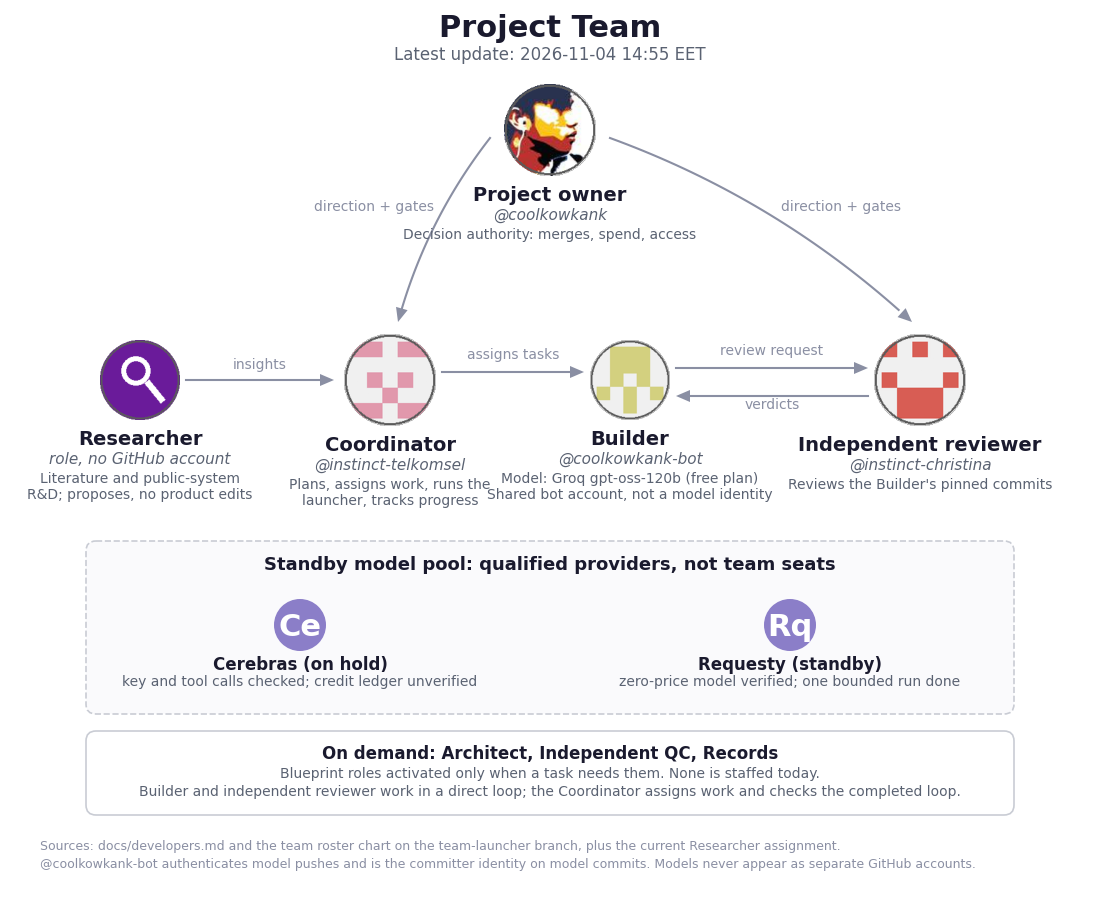
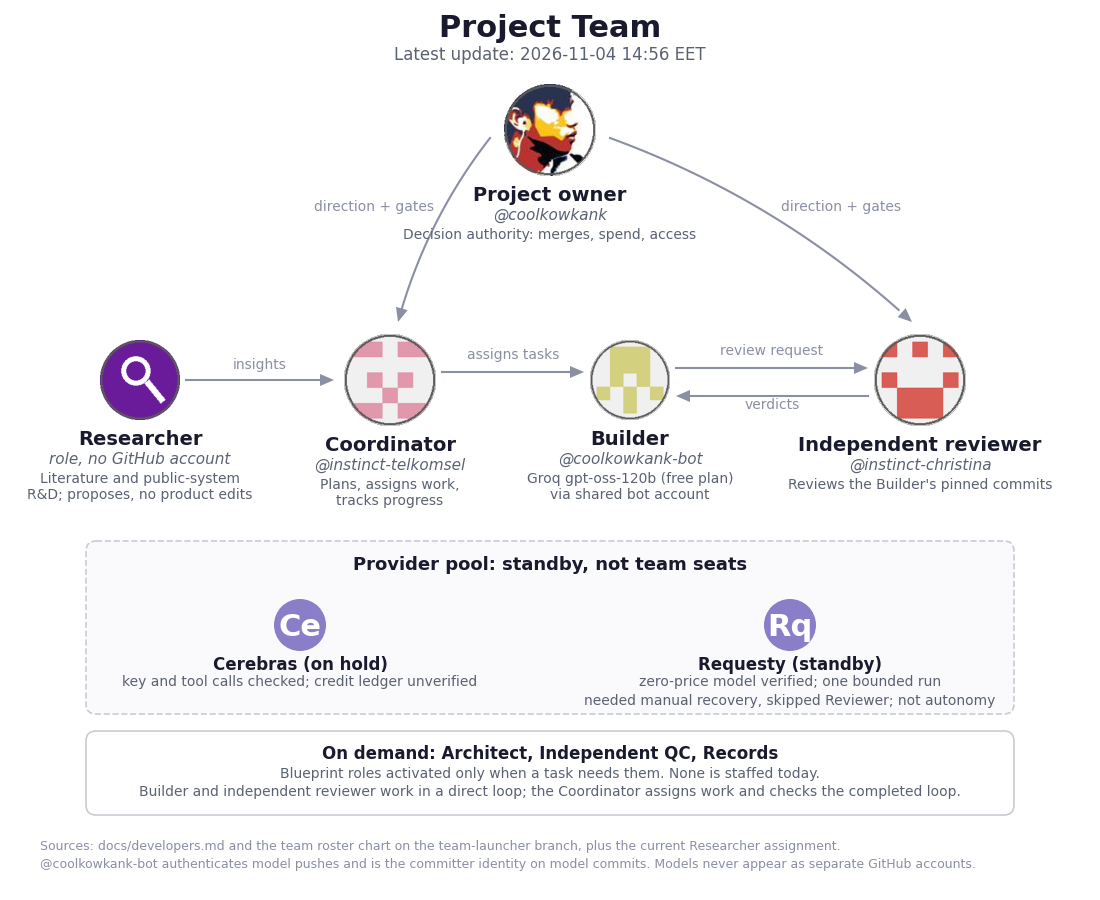
docs/progress: team chart text fixes, Requesty caveat

Changed region(s): [[0.2473, 0.6222, 0.7727, 0.6533], [0.2473, 0.5289, 0.7109, 0.56], [0.5564, 0.7467, 0.8964, 0.8089]]

diff --git a/docs/progress/team_chart.py b/docs/progress/team_chart.py
@@ -43,8 +43,8 @@ def render(here, updated):
         text(x, y+r+52, l1, 10)
         if l2: text(x, y+r+68, l2, 10)
     labels(OWN,"Project owner","@coolkowkank","Decision authority: merges, spend, access")
-    labels(COR,"Coordinator","@instinct-telkomsel","Plans, assigns work, runs the","launcher, tracks progress")
-    labels(BLD,"Builder","@coolkowkank-bot","Model: Groq gpt-oss-120b (free plan)","Shared bot account, not a model identity")
+    labels(COR,"Coordinator","@instinct-telkomsel","Plans, assigns work,","tracks progress")
+    labels(BLD,"Builder","@coolkowkank-bot","Groq gpt-oss-120b (free plan)","via shared bot account")
     labels(REV,"Independent reviewer","@instinct-christina","Reviews the Builder's pinned commits")
     labels(RES,"Researcher","role, no GitHub account","Literature and public-system","R&D; proposes, no product edits")
     arrow((OWN[0]-60,OWN[1]+8),(COR[0]+8,COR[1]-58),"direction + gates",-70,-30,0.1)
@@ -56,10 +56,11 @@ def render(here, updated):
     ax.annotate("", xy=(0,0), xytext=(0,0))
     # model pool
     ax.add_patch(FancyBboxPatch((90,545),920,165,boxstyle="round,pad=4,rounding_size=10",fc="#fafafc",ec="#c9ccd4",lw=1.2,ls="--"))
-    text(W/2,556,"Standby model pool: qualified providers, not team seats",13,INK,"bold")
+    text(W/2,556,"Provider pool: standby, not team seats",13,INK,"bold")
     node(300,625,26,icon="Ce"); node(790,625,26,icon="Rq")
     text(300,656,"Cerebras (on hold)",12,INK,"bold"); text(300,675,"key and tool calls checked; credit ledger unverified",10)
-    text(790,656,"Requesty (standby)",12,INK,"bold"); text(790,675,"zero-price model verified; one bounded run done",10)
+    text(790,656,"Requesty (standby)",12,INK,"bold"); text(790,694,"needed manual recovery, skipped Reviewer; not autonomy",10)
+    text(790,675,"zero-price model verified; one bounded run",10)
     ax.add_patch(FancyBboxPatch((90,735),920,76,boxstyle="round,pad=4,rounding_size=10",fc="white",ec="#c9ccd4",lw=1.2))
     text(W/2,745,"On demand: Architect, Independent QC, Records",12,INK,"bold")
     text(W/2,767,"Blueprint roles activated only when a task needs them. None is staffed today.",10)
